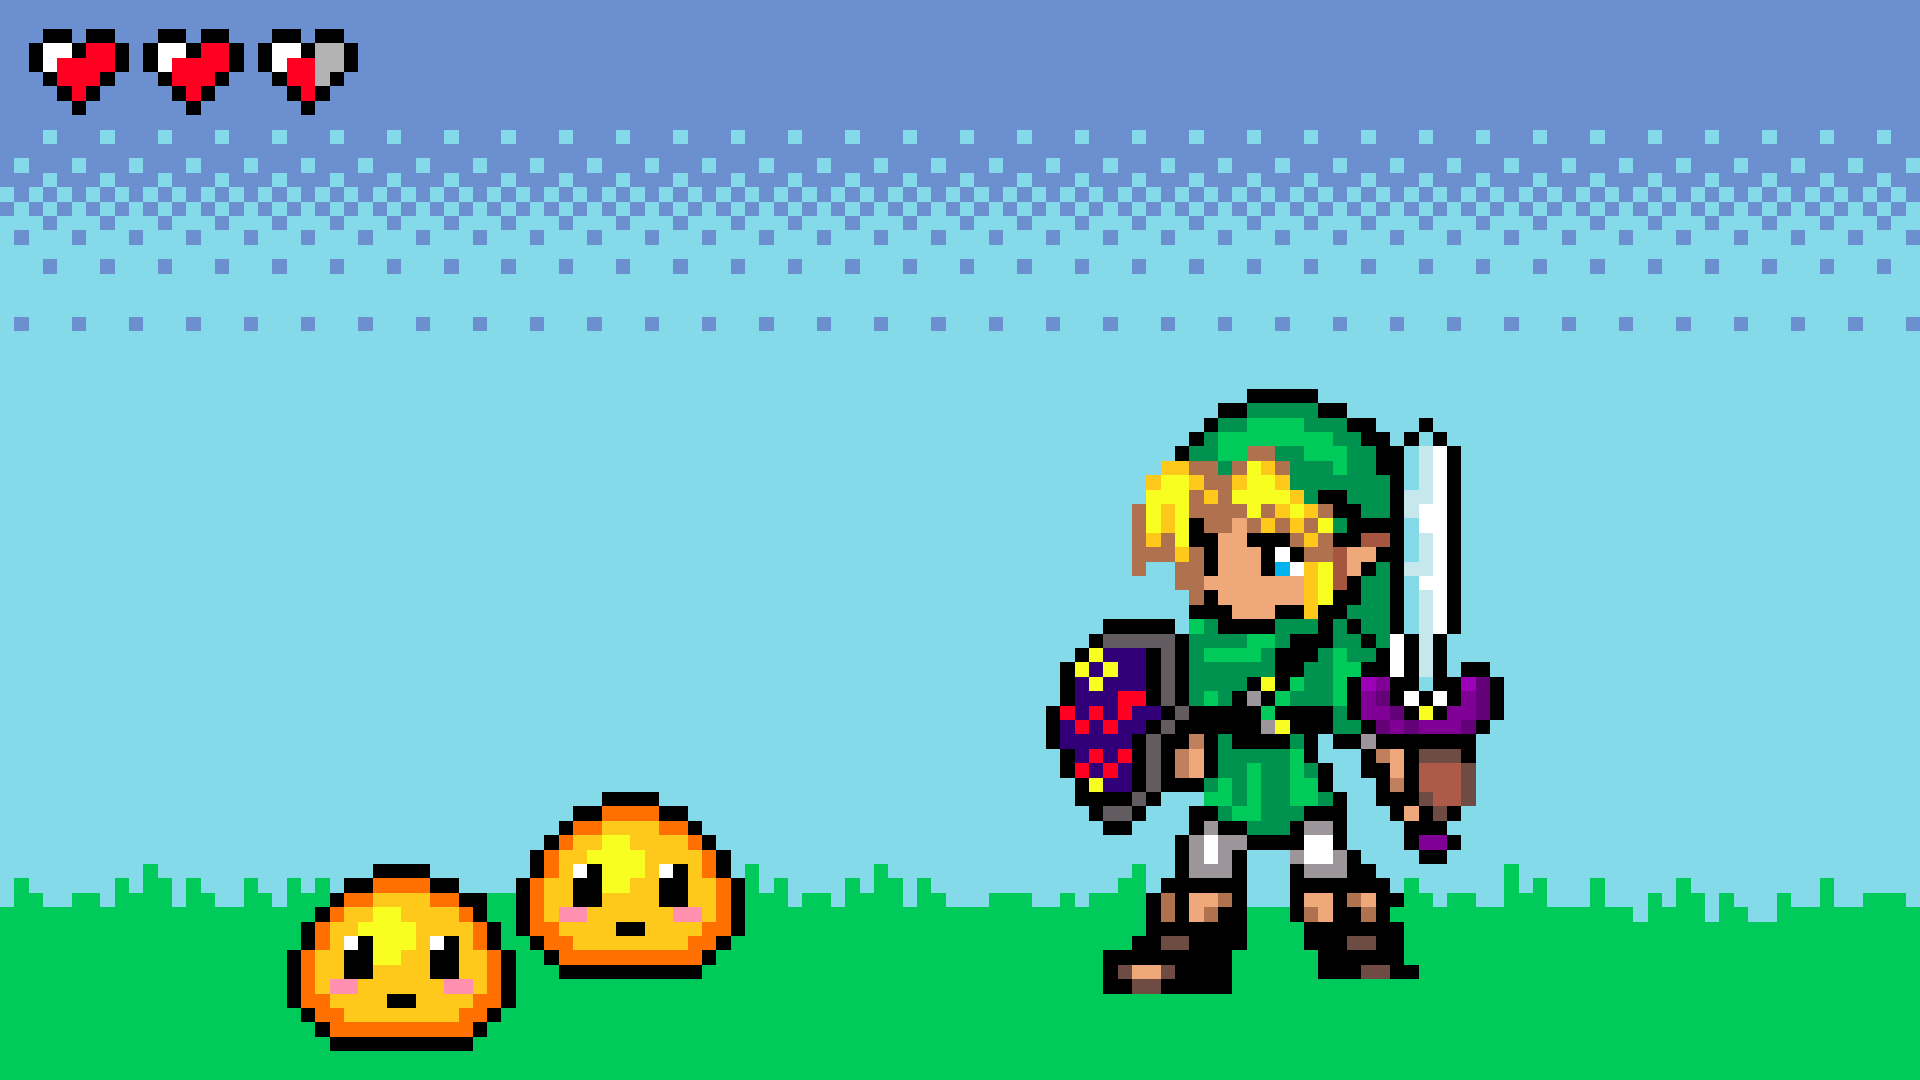
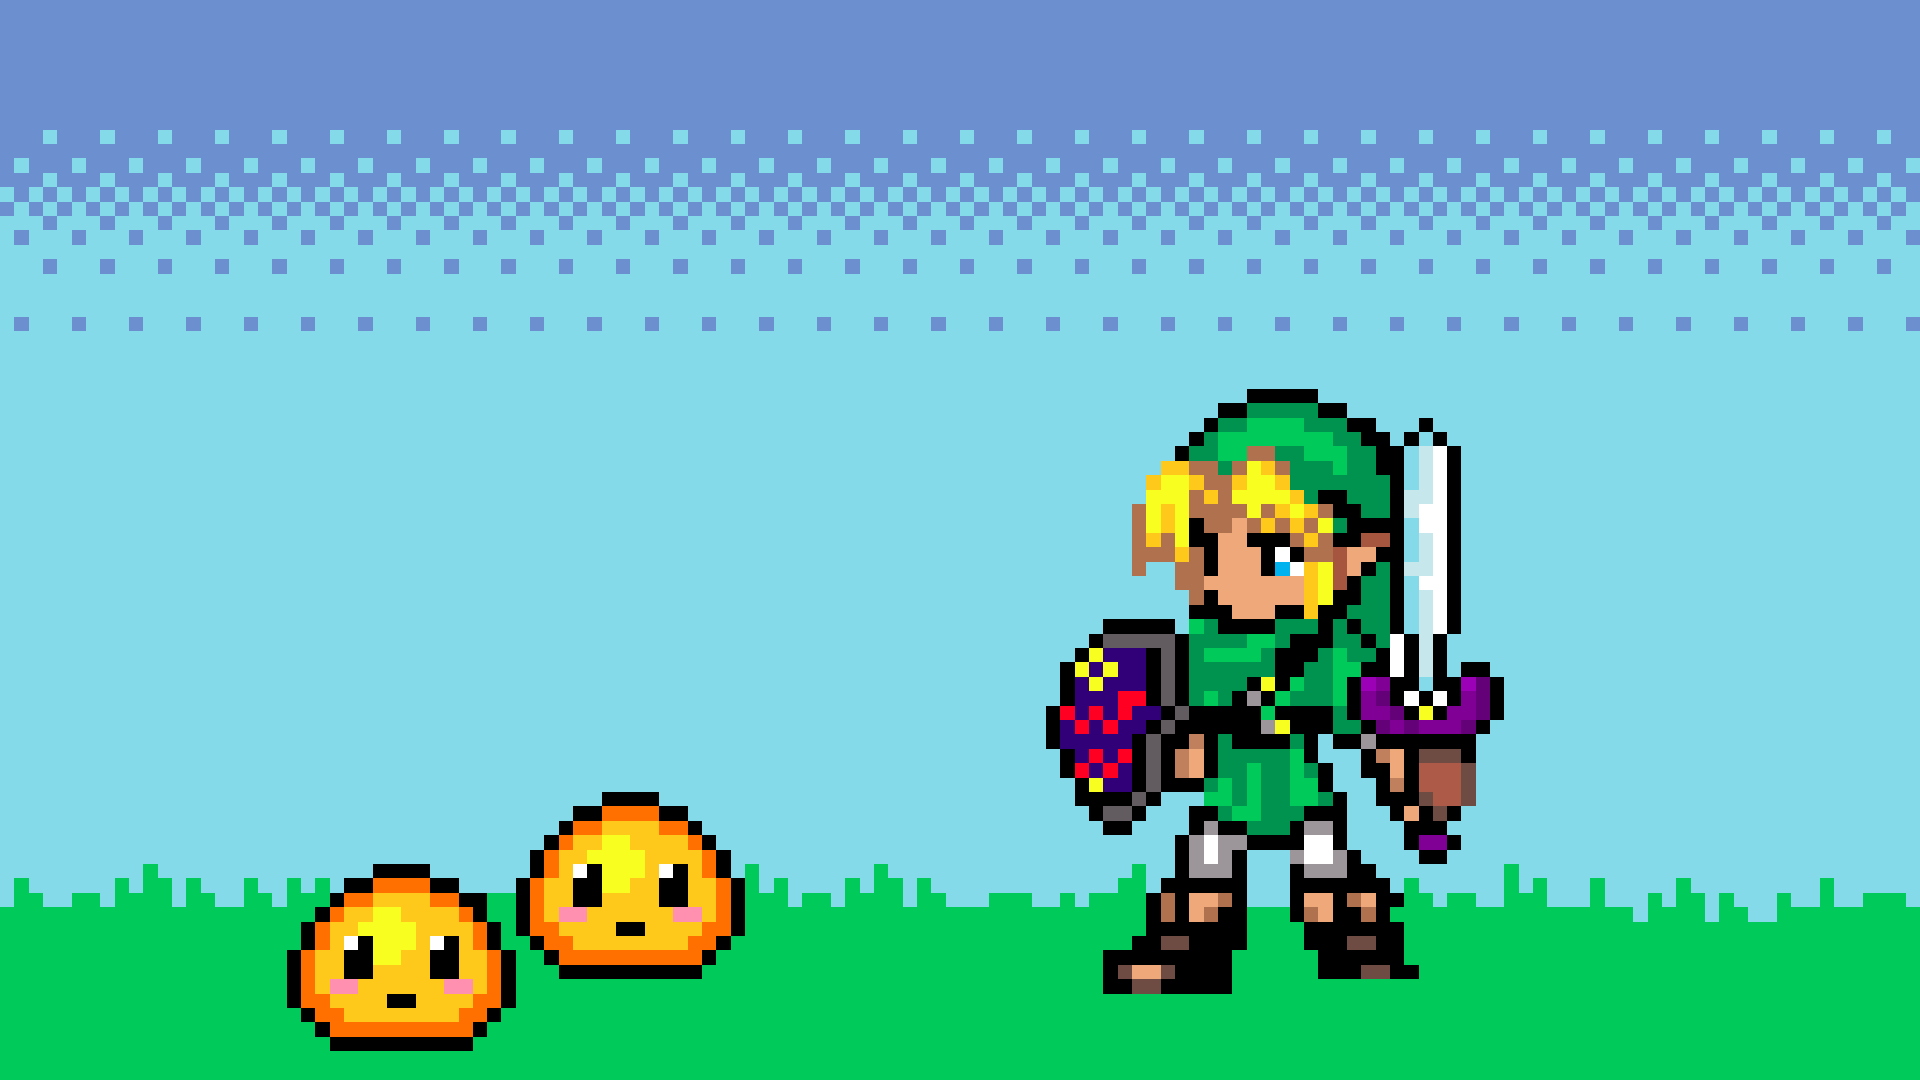
Fixed progressbar from resetting after song has ended. Fixed Zelda Level.

Changed region(s): [[0.0, 0.0306, 0.1875, 0.1222]]

diff --git a/Projekt/core/src/com/mygdx/game/ocarinagame/levels/OcarinaGameFalling.java b/Projekt/core/src/com/mygdx/game/ocarinagame/levels/OcarinaGameFalling.java
@@ -20,11 +20,11 @@ import java.util.Iterator;
 public final class OcarinaGameFalling extends AbstractOcarinaGame {
 
     // Game state constants
-    private static final float SPEED = 75;
+    private static final float SPEED = 1075;
     private static final float DELAY = 3;
 
     // Arrow hit and spawn position
-    private static final float HIT_POSITION = 1;
+    private static final float HIT_POSITION = 10;
 
     // Hitzone
     private final Texture hitZoneTexture;
@@ -59,12 +59,12 @@ public final class OcarinaGameFalling extends AbstractOcarinaGame {
         hud.getProgressBar().setRange(0, music.getSongLength());
 
         // Setup hitZone
-        hitZoneTexture = new Texture("ocarina-game\\hit-zone.png");
+        hitZoneTexture = new Texture("ocarina-game\\hit-zone-fhd.png");
         hitZone = new Sprite(hitZoneTexture, hitZoneTexture.getWidth(), hitZoneTexture.getHeight());
         hitZone.setPosition(0.5f * (WORLD_WIDTH - hitZone.getWidth()), HIT_POSITION );
 
         // Setup background
-        backgroundTexture = new Texture("ocarina-game\\zelda-background.png");
+        backgroundTexture = new Texture("ocarina-game\\zelda-background-fhd.png");
         background = new Image(backgroundTexture);
     }
 
@@ -129,7 +129,8 @@ public final class OcarinaGameFalling extends AbstractOcarinaGame {
 
     @Override
     protected void controlsAction() {
-        pauseGameOnEscape();
+        // Pause menu still buggy, henceforth it is deactivated
+        // pauseGameOnEscape();
 
         // Look for any arrows that have reached hitZone and remember them
         Array<Arrow> arrowsInHitZone = new Array<>();

diff --git a/Projekt/core/src/com/mygdx/game/GameOver.java b/Projekt/core/src/com/mygdx/game/GameOver.java
@@ -13,6 +13,8 @@ import com.badlogic.gdx.scenes.scene2d.utils.ChangeListener;
 import com.badlogic.gdx.utils.ScreenUtils;
 import com.badlogic.gdx.utils.viewport.FillViewport;
 import com.badlogic.gdx.utils.viewport.ScreenViewport;
+import com.mygdx.game.ocarinagame.levels.OcarinaGameAppearing;
+import com.mygdx.game.ocarinagame.levels.OcarinaGameFalling;
 
 public class GameOver implements Screen {
 
@@ -68,11 +70,11 @@ public class GameOver implements Screen {
                 if (level.equals("WayThere")) {
                     game.setScreen(new JumpAndRun(game,0));
                 } else if (level.equals("OcarinaLevel")) {
-                    game.setScreen(new MazeLevel(game));
+                    game.setScreen(new OcarinaGameFalling(game));
                 } else if (level.equals("MazeLevel")) {
                     game.setScreen(new MazeLevel(game));
                 } else if (level.equals("WakeUp")) {
-                    //game.setScreen(new WakeUP());
+                    game.setScreen(new OcarinaGameAppearing(game));
                 } else if (level.equals("Homeway")) {
                     game.setScreen(new JumpAndRun(game,0));
                 }

diff --git a/Projekt/core/src/com/mygdx/game/ocarinagame/ui/HUD.java b/Projekt/core/src/com/mygdx/game/ocarinagame/ui/HUD.java
@@ -26,6 +26,7 @@ public final class HUD implements Disposable {
 
     private ProgressBar scoreProgressBar;
     private ProgressBar progressBar;
+    private boolean hasSongFinished;
     private final Array<Sprite> hearts;
 
     private final Texture heartTexture;
@@ -67,7 +68,11 @@ public final class HUD implements Disposable {
     }
 
     public void updateProgress() {
-        progressBar.setValue(game.getMusic().getSong().getPosition() + getRenderOffset(progressBar));
+        if (game.getMusic().getSong().getPosition() >= game.getMusic().getBeatEnd()) hasSongFinished = true;
+        if (!hasSongFinished)
+            progressBar.setValue(game.getMusic().getSong().getPosition() + getRenderOffset(progressBar));
+        else
+            progressBar.setValue(progressBar.getMaxValue());
     }
 
     public void draw() {
@@ -128,7 +133,8 @@ public final class HUD implements Disposable {
     @Override
     public void dispose() {
         stage.dispose();
-        scoreProgressBar.dispose();
+        if (isScoreProgressBarActive) scoreProgressBar.dispose();
+        if (isProgressBarActive) progressBar.dispose();
         heartTexture.dispose();
     }
 }

diff --git a/Projekt/core/src/com/mygdx/game/ocarinagame/levels/AbstractOcarinaGame.java b/Projekt/core/src/com/mygdx/game/ocarinagame/levels/AbstractOcarinaGame.java
@@ -29,7 +29,7 @@ public abstract class AbstractOcarinaGame implements Screen {
 
     // Offsets
     protected static final float FLOAT_COMPARE_OFFSET = 0.01f; // for float comparisons (changing bpm at specific time)
-    protected static final float ARROW_SPAWN_POSITION_OFFSET = 3;
+    protected static final float ARROW_SPAWN_POSITION_OFFSET = 10;
 
     // Game state constants
     protected static final float WIN_RATE = 0.5f;
